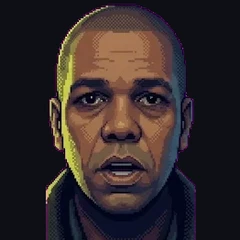
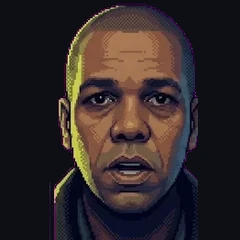
Retrato do Guilherme alinhado: rosto não pula ao falar
Claude-Session: https://claude.ai/code/session_01EDVf1EFUhdHmvNwVV18pfV

Changed region(s): [[0.175, 0.0, 0.8458, 1.0], [0.7, 0.875, 0.7292, 0.9333], [0.525, 0.8458, 0.5542, 0.875]]

diff --git a/sw.js b/sw.js
@@ -1,4 +1,4 @@
-const V='pecados-v3';
+const V='pecados-v4';
 const FILES=["./", "index.html", "manifest.webmanifest", "icon-192.png", "icon-512.png", "apple-touch-icon.png", "batidas.mp3", "bau.mp3", "bauaberto.webp", "cafe.mp3", "capela.mp3", "capeladentro.webp", "capelafora.webp", "casa-vo.mp3", "casafora.webp", "chuva-dentro.mp3", "chuva.mp3", "dano.mp3", "degrau.mp3", "delegacia.mp3", "delegacia.webp", "g_legL.webp", "g_legR.webp", "g_torso.webp", "gia0.webp", "gia1.webp", "gia2.webp", "gia3.webp", "gia4.webp", "gia5.webp", "gib0.webp", "gib1.webp", "gib2.webp", "gib3.webp", "gib4.webp", "gib5.webp", "gib6.webp", "gic0.webp", "gic1.webp", "gic2.webp", "gic3.webp", "gic4.webp", "gic5.webp", "gic6.webp", "guilherme.webp", "gw0.webp", "gw1.webp", "gw2.webp", "gw3.webp", "gw4.webp", "gw5.webp", "helena.webp", "i_bilhete.webp", "i_corda.webp", "i_dinheiro.webp", "i_ficha.webp", "i_isqueiro.webp", "i_nota.webp", "i_petisco.webp", "i_vela.webp", "i_velaacesa.webp", "isqueiro.mp3", "izabel.webp", "latido.mp3", "marlene.webp", "musica.mp3", "nathalia.webp", "nori0.webp", "nori1.webp", "nori2.webp", "ns0.webp", "ns1.webp", "ns2.webp", "ns3.webp", "p_guilherme.webp", "p_helena.webp", "p_izabel.webp", "p_marlene.webp", "p_nathalia.webp", "p_pedro.webp", "p_plantonista.webp", "p_sarah.webp", "parede.webp", "passos-madeira.mp3", "passos-rua.mp3", "pd0.webp", "pd1.webp", "pd2.webp", "pd3.webp", "pd4.webp", "pd5.webp", "pedro.webp", "pegar.mp3", "pg0.webp", "pg1.webp", "pg2.webp", "pg3.webp", "pg4.webp", "pg5.webp", "pista.mp3", "plantonista.webp", "porao.mp3", "porao.webp", "porta.mp3", "portao.mp3", "praia.mp3", "redacao.mp3", "redacao.webp", "rosnado.mp3", "rua.webp", "sala.webp", "sala_raio.webp", "sarah.webp", "sebo.webp", "sino.mp3", "sussurros.mp3", "susto.mp3", "taxi.mp3", "telefone.mp3", "tiana0.webp", "tiana1.webp", "tiana2.webp"];
 self.addEventListener('install',e=>{e.waitUntil(caches.open(V).then(c=>c.addAll(FILES)).then(()=>self.skipWaiting()))});
 self.addEventListener('activate',e=>{e.waitUntil(caches.keys().then(ks=>Promise.all(ks.filter(k=>k!==V).map(k=>caches.delete(k)))).then(()=>self.clients.claim()))});

diff --git a/index.html b/index.html
@@ -553,10 +553,10 @@ const ANIMS={
 async function runAnim(el){await sleep(Math.random()*1200);while(el.isConnected){for(const [f,ms] of ANIMS[el._anim].seq()){if(!el.isConnected)return;el.src=IMG(el._hold||f);await sleep(ms)}}}
 ['izabel','helena','sala_raio','ns0','ns1','ns2','ns3','pd0','pd1','pd2','pd3','pd4','pd5'].forEach(n=>{const im=new Image();im.src=IMG(n)});
 /* retratos animados */
-const PORT={guilherme:{base:'pg0',blink:['pg1','pg4','pg1'],talk:['pg2','pg3','pg2','pg0']}};
+const PORT={guilherme:{base:'pg0',blink:['pg1','pg4','pg1'],talk:['pg2','pg0','pg3','pg2','pg0']}};
 Object.values(PORT).forEach(p=>[p.base,...p.blink,...p.talk].forEach(n=>{const im=new Image();im.src=IMG(n)}));
 function portAnim(who,txt){const P=PORT[who];if(!P)return()=>{};const el=$('#por');let alive=true;const set=n=>{if(alive)el.style.backgroundImage=`url(${IMG(n)})`};
-  (async()=>{await sleep(30);const end=performance.now()+Math.min(3200,txt.length*48);let i=0;while(alive&&performance.now()<end){set(P.talk[i++%P.talk.length]);await sleep(110)}set(P.base);
+  (async()=>{await sleep(30);const end=performance.now()+Math.min(3200,txt.length*48);let i=0;while(alive&&performance.now()<end){set(P.talk[i++%P.talk.length]);await sleep(140)}set(P.base);
     while(alive){await sleep(2200+Math.random()*2800);if(!alive)break;for(const f of P.blink){set(f);await sleep(70)}set(P.base)}})();
   return()=>{alive=false}}
 /* Guilherme parado: gestos */
